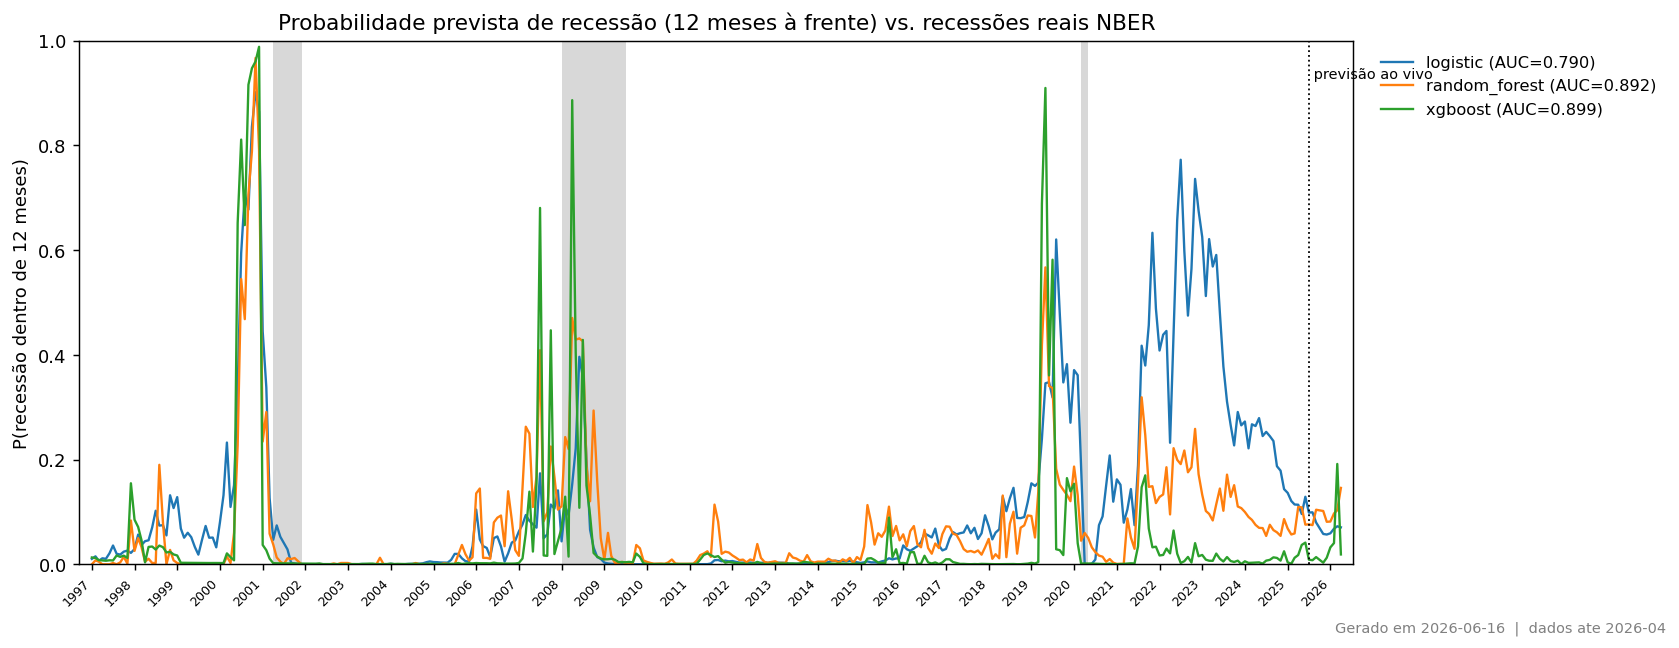
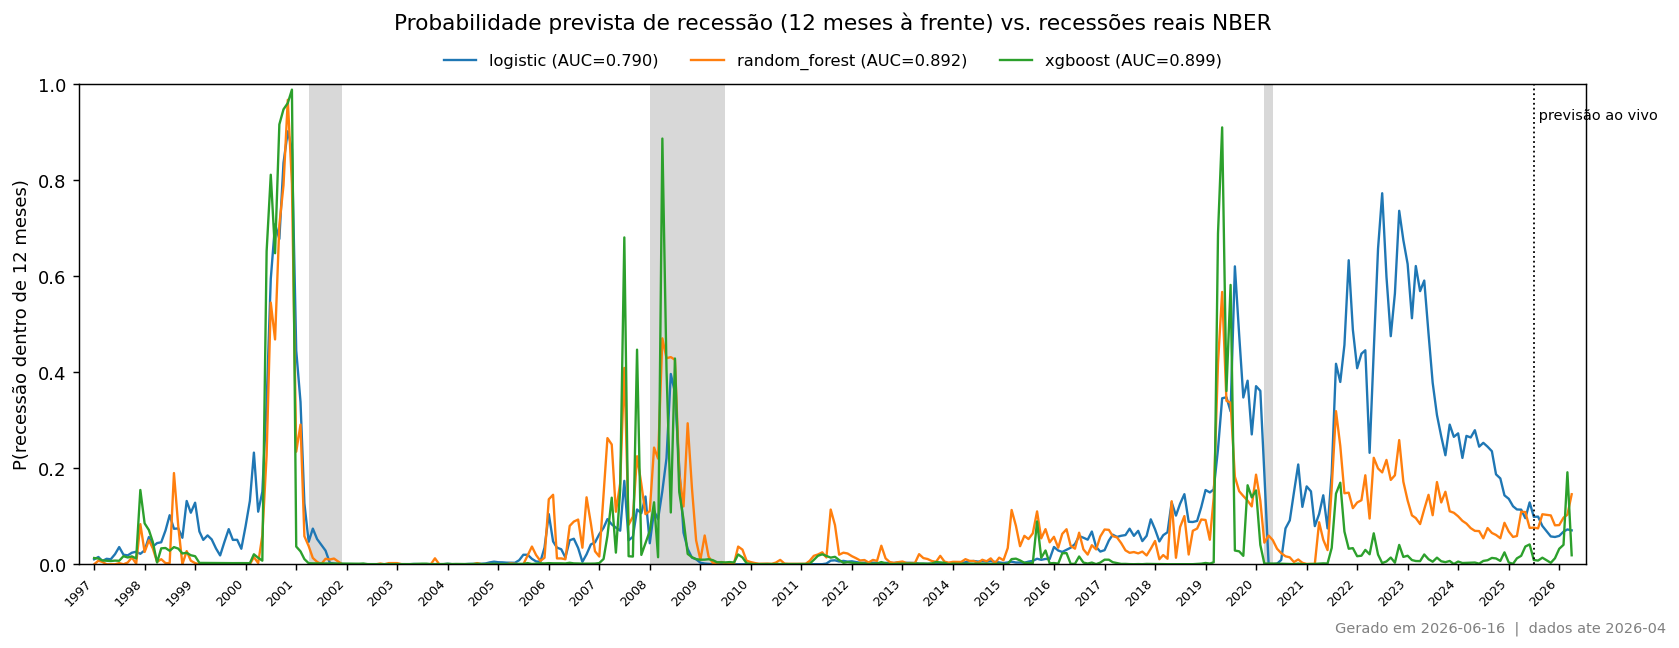
Grafico: legenda horizontal no topo (entre titulo e plot)

Changed region(s): [[0.031, 0.0, 0.9911, 0.9259], [0.0, 0.2469, 0.0619, 0.6173], [0.0, 0.6481, 0.0619, 0.7407]]

diff --git a/src/evaluate.py b/src/evaluate.py
@@ -68,11 +68,13 @@ def plot_recession_probability(preds: pd.DataFrame, scores: dict, out_dir: Path)
         ax.axvline(boundary, color="black", ls=":", lw=1)
         ax.text(boundary, 0.95, " previsão ao vivo", fontsize=8, va="top")
     ax.set_title("Probabilidade prevista de recessão (12 meses à frente) vs. recessões reais NBER",
-                 fontsize=12)
+                 fontsize=12, pad=30)
     ax.set_ylabel("P(recessão dentro de 12 meses)")
     ax.set_ylim(0, 1)
-    # Legenda fora do gráfico (à direita) para não tapar as linhas dos anos ~2000.
-    ax.legend(loc="upper left", bbox_to_anchor=(1.01, 1), fontsize=9, frameon=False)
+    # Legenda horizontal por cima do gráfico (entre o título e o plot), para não
+    # tapar as linhas dos anos ~2000 nem o título.
+    ax.legend(loc="lower center", bbox_to_anchor=(0.5, 1.0), ncol=3,
+              fontsize=9, frameon=False)
     ax.margins(x=0.01)
 
     # Eixo X: uma marca por ano (em vez do automático de 4 em 4), rodadas.